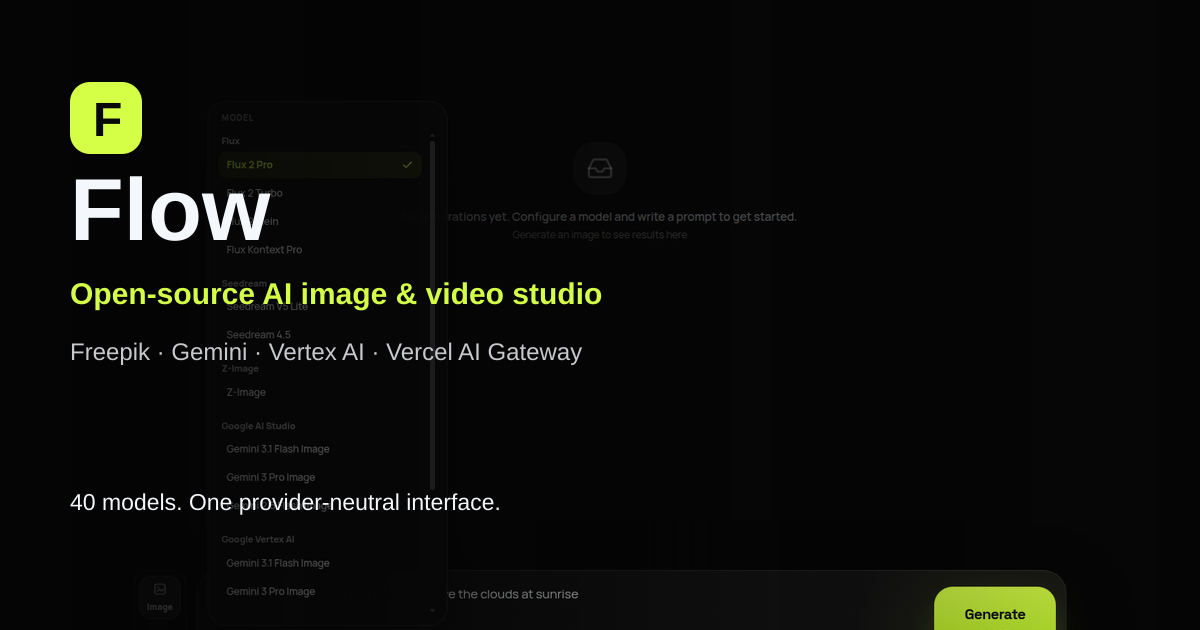
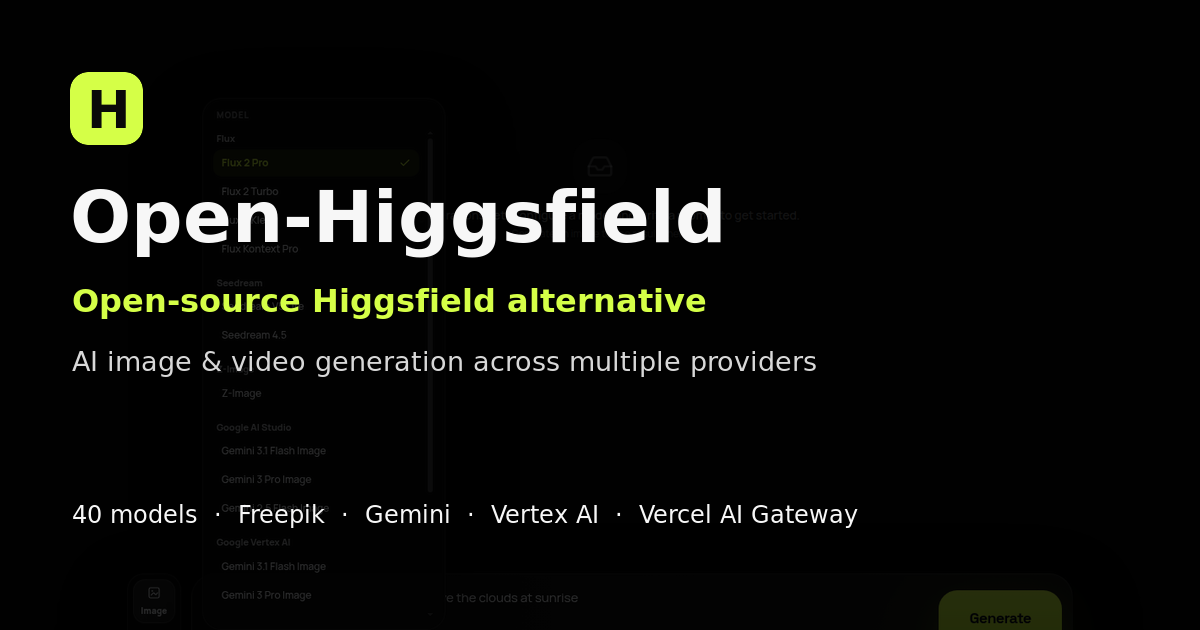
chore: rebrand project as Open-Higgsfield

diff --git a/src/app/[locale]/layout.tsx b/src/app/[locale]/layout.tsx
@@ -18,16 +18,19 @@ const spaceGrotesk = Space_Grotesk({
 });
 
 export const metadata: Metadata = {
-    metadataBase: new URL("https://flow.techbe.me"),
+    metadataBase: new URL("https://open-higgsfield.techbe.me"),
     title: {
-        default: "Flow - Open Source AI Image & Video Studio",
-        template: "%s | Flow",
+        default: "Open-Higgsfield - Open-Source Higgsfield Alternative",
+        template: "%s | Open-Higgsfield",
     },
-    description: "Generate AI images and videos with Freepik, Gemini, Google Vertex AI and Vercel AI Gateway from one open-source studio.",
+    description: "The open-source Higgsfield alternative for AI image and video generation with Freepik, Gemini, Vertex AI and Vercel AI Gateway.",
     keywords: [
         "AI image generator",
         "AI video generator",
         "open source AI studio",
+        "Higgsfield alternative",
+        "open source Higgsfield",
+        "Open-Higgsfield",
         "Gemini image generation",
         "Veo video generation",
         "Vertex AI",
@@ -38,7 +41,7 @@ export const metadata: Metadata = {
     ],
     authors: [{ name: "TechBe", url: "https://techbe.me" }],
     creator: "TechBe",
-    applicationName: "Flow",
+    applicationName: "Open-Higgsfield",
     alternates: {
         canonical: "/",
         languages: {
@@ -48,16 +51,16 @@ export const metadata: Metadata = {
     },
     openGraph: {
         type: "website",
-        url: "https://flow.techbe.me",
-        siteName: "Flow",
-        title: "Flow - Open Source AI Image & Video Studio",
-        description: "One interface for multi-provider AI image and video generation.",
-        images: [{ url: "/og-image.png", width: 1200, height: 630, alt: "Flow AI image and video studio" }],
+        url: "https://open-higgsfield.techbe.me",
+        siteName: "Open-Higgsfield",
+        title: "Open-Higgsfield - Open-Source Higgsfield Alternative",
+        description: "Generate AI images and videos across multiple providers from one free, self-hostable studio.",
+        images: [{ url: "/og-image.png", width: 1200, height: 630, alt: "Open-Higgsfield AI image and video studio" }],
     },
     twitter: {
         card: "summary_large_image",
-        title: "Flow - Open Source AI Image & Video Studio",
-        description: "One interface for multi-provider AI image and video generation.",
+        title: "Open-Higgsfield - Open-Source Higgsfield Alternative",
+        description: "Generate AI images and videos across multiple providers from one free, self-hostable studio.",
         images: ["/og-image.png"],
     },
     icons: { icon: "/icon.svg" },

diff --git a/src/app/sitemap.ts b/src/app/sitemap.ts
@@ -2,7 +2,7 @@ import type { MetadataRoute } from "next";
 
 export default function sitemap(): MetadataRoute.Sitemap {
     return [
-        { url: "https://flow.techbe.me/en", changeFrequency: "weekly", priority: 1 },
-        { url: "https://flow.techbe.me/pt-BR", changeFrequency: "weekly", priority: 0.9 },
+        { url: "https://open-higgsfield.techbe.me/en", changeFrequency: "weekly", priority: 1 },
+        { url: "https://open-higgsfield.techbe.me/pt-BR", changeFrequency: "weekly", priority: 0.9 },
     ];
 }

diff --git a/src/app/manifest.ts b/src/app/manifest.ts
@@ -2,8 +2,8 @@ import type { MetadataRoute } from "next";
 
 export default function manifest(): MetadataRoute.Manifest {
     return {
-        name: "Flow - AI Image & Video Studio",
-        short_name: "Flow",
+        name: "Open-Higgsfield - AI Image & Video Studio",
+        short_name: "Open-Higgsfield",
         description: "Open-source multi-provider AI image and video generation studio.",
         start_url: "/",
         display: "standalone",

diff --git a/src/lib/storage-paths.ts b/src/lib/storage-paths.ts
@@ -1,7 +1,7 @@
 import path from "node:path";
 
-export const STORAGE_ROOT = process.env.FLOW_STORAGE_DIR
-    ? path.resolve(process.env.FLOW_STORAGE_DIR)
+export const STORAGE_ROOT = process.env.OPEN_HIGGSFIELD_STORAGE_DIR
+    ? path.resolve(process.env.OPEN_HIGGSFIELD_STORAGE_DIR)
     : process.env.VERCEL
-        ? path.join("/tmp", "flow-ai-studio")
+        ? path.join("/tmp", "open-higgsfield")
         : process.cwd();

diff --git a/src/app/robots.ts b/src/app/robots.ts
@@ -3,7 +3,7 @@ import type { MetadataRoute } from "next";
 export default function robots(): MetadataRoute.Robots {
     return {
         rules: { userAgent: "*", allow: "/", disallow: "/api/" },
-        sitemap: "https://flow.techbe.me/sitemap.xml",
-        host: "https://flow.techbe.me",
+        sitemap: "https://open-higgsfield.techbe.me/sitemap.xml",
+        host: "https://open-higgsfield.techbe.me",
     };
 }

diff --git a/src/components/studio/Header.tsx b/src/components/studio/Header.tsx
@@ -22,7 +22,7 @@ export function Header({ mode, onModeChange }: HeaderProps) {
           <Sparkles className="h-4 w-4 text-primary-foreground" />
         </div>
         <span className="font-bold text-sm hidden sm:inline tracking-tight">
-          Flow <span className="text-primary">AI</span>
+          Open<span className="text-primary">Higgsfield</span>
         </span>
       </div>
 

diff --git a/src/lib/upload.ts b/src/lib/upload.ts
@@ -39,7 +39,7 @@ async function uploadToCloudinary(buffer: Buffer, filename: string, mimeType: st
     }
 
     const timestamp = Math.floor(Date.now() / 1000);
-    const folder = "flow-ai-studio";
+    const folder = "open-higgsfield";
 
     // Generate SHA-1 signature: sign "folder=...&timestamp=..." + apiSecret
     const { createHash } = await import("crypto");

diff --git a/src/app/api/health/route.ts b/src/app/api/health/route.ts
@@ -1,5 +1,5 @@
 import { NextResponse } from "next/server";
 
 export function GET() {
-    return NextResponse.json({ status: "ok", service: "flow-ai-studio" });
+    return NextResponse.json({ status: "ok", service: "open-higgsfield" });
 }

diff --git a/README.md b/README.md
@@ -1,11 +1,11 @@
 <div align="center">
-  <img src="public/icon.svg" width="88" alt="Flow logo" />
-  <h1>Flow</h1>
-  <p><strong>Open-source AI image and video generation studio.</strong></p>
-  <p>Run Freepik, Gemini, Google Vertex AI and Vercel AI Gateway models from one fast, provider-neutral interface.</p>
+  <img src="public/icon.svg" width="88" alt="Open-Higgsfield logo" />
+  <h1>Open-Higgsfield</h1>
+  <p><strong>The open-source Higgsfield alternative for AI image and video generation.</strong></p>
+  <p>Generate with Freepik, Gemini, Google Vertex AI and Vercel AI Gateway models from one fast, provider-neutral studio.</p>
 
   <p>
-    <a href="https://flow.techbe.me"><strong>Live Demo</strong></a>
+    <a href="https://open-higgsfield.techbe.me"><strong>Live Demo</strong></a>
     |
     <a href="#quick-start">Quick Start</a>
     |
@@ -15,23 +15,27 @@
   </p>
 
   <p>
-    <a href="https://github.com/TechBeme/flow-ai-studio/actions/workflows/ci.yml"><img alt="CI" src="https://github.com/TechBeme/flow-ai-studio/actions/workflows/ci.yml/badge.svg" /></a>
+    <a href="https://github.com/TechBeme/open-higgsfield/actions/workflows/ci.yml"><img alt="CI" src="https://github.com/TechBeme/open-higgsfield/actions/workflows/ci.yml/badge.svg" /></a>
     <a href="LICENSE"><img alt="MIT License" src="https://img.shields.io/badge/license-MIT-d5ff47" /></a>
     <a href="https://nextjs.org"><img alt="Next.js 16" src="https://img.shields.io/badge/Next.js-16-black?logo=next.js" /></a>
     <a href="https://www.typescriptlang.org"><img alt="TypeScript" src="https://img.shields.io/badge/TypeScript-strict-3178c6?logo=typescript&logoColor=white" /></a>
-    <a href="https://github.com/TechBeme/flow-ai-studio/stargazers"><img alt="GitHub stars" src="https://img.shields.io/github/stars/TechBeme/flow-ai-studio?style=social" /></a>
+    <a href="https://github.com/TechBeme/open-higgsfield/stargazers"><img alt="GitHub stars" src="https://img.shields.io/github/stars/TechBeme/open-higgsfield?style=social" /></a>
   </p>
 
   <p><a href="docs/README.pt-BR.md">Leia em Portugues</a></p>
 </div>
 
-![Flow AI image and video generation studio](docs/images/flow-studio.png)
+![Open-Higgsfield AI image and video generation studio](docs/images/open-higgsfield-studio.png)
 
-## Why Flow?
+## The open-source Higgsfield alternative
 
-AI media APIs are powerful, but every provider uses different model names, payloads, upload rules, polling formats and output types. Flow puts those differences behind one normalized architecture, so creators get one consistent studio and developers get one extensible codebase.
+Open-Higgsfield is a free, self-hostable AI image and video studio for people who want a flexible alternative to closed creative platforms. Bring your own API keys, switch providers without changing tools and keep the interface, model catalog and deployment under your control.
 
-Flow currently exposes **40 curated image and video models** across four provider integrations without coupling the UI to any provider SDK.
+AI media APIs use different model names, payloads, upload rules, polling formats and output types. Open-Higgsfield puts those differences behind one normalized architecture, so creators get one consistent studio and developers get one extensible codebase.
+
+Open-Higgsfield currently exposes **40 curated image and video models** across four provider integrations without coupling the UI to any provider SDK.
+
+> Open-Higgsfield is an independent open-source project and is not affiliated with or endorsed by Higgsfield AI.
 
 ## Highlights
 
@@ -62,7 +66,7 @@ See the complete integration guide in [docs/providers.md](docs/providers.md).
 
 | Model discovery | Adaptive controls |
 | --- | --- |
-| ![Flow model selector](docs/images/flow-models.png) | ![Flow advanced generation controls](docs/images/flow-controls.png) |
+| ![Open-Higgsfield model selector](docs/images/open-higgsfield-models.png) | ![Open-Higgsfield advanced generation controls](docs/images/open-higgsfield-controls.png) |
 
 ## Quick start
 
@@ -76,8 +80,8 @@ See the complete integration guide in [docs/providers.md](docs/providers.md).
 ### Run locally
 
 ```bash
-git clone https://github.com/TechBeme/flow-ai-studio.git
-cd flow-ai-studio
+git clone https://github.com/TechBeme/open-higgsfield.git
+cd open-higgsfield
 npm install
 cp .env.example .env.local
 npm run dev
@@ -92,7 +96,7 @@ cp .env.example .env.local
 docker compose up --build
 ```
 
-Generated files and local task history are stored in the `flow-data` Docker volume.
+Generated files and local task history are stored in the `open-higgsfield-data` Docker volume.
 
 ## Configuration
 
@@ -115,7 +119,7 @@ AI_GATEWAY_API_KEY=
 CLOUDINARY_URL=
 ```
 
-Never prefix provider secrets with `NEXT_PUBLIC_`. Flow reads credentials only in server-side modules. See [.env.example](.env.example) for every supported variable.
+Never prefix provider secrets with `NEXT_PUBLIC_`. Open-Higgsfield reads credentials only in server-side modules. See [.env.example](.env.example) for every supported variable.
 
 ## How it works
 
@@ -151,9 +155,9 @@ The UI automatically derives model groups, media slots and controls from capabil
 
 ## Deploy
 
-[![Deploy with Vercel](https://vercel.com/button)](https://vercel.com/new/clone?repository-url=https%3A%2F%2Fgithub.com%2FTechBeme%2Fflow-ai-studio)
+[![Deploy with Vercel](https://vercel.com/button)](https://vercel.com/new/clone?repository-url=https%3A%2F%2Fgithub.com%2FTechBeme%2Fopen-higgsfield)
 
-Flow can be deployed to Vercel for a public interface, but local files and in-memory tasks are ephemeral on serverless platforms. For reliable production generation, connect durable object storage and a persistent task/queue backend. The Docker deployment keeps local state on a volume and is the simplest full-featured self-hosted option today.
+Open-Higgsfield can be deployed to Vercel for a public interface, but local files and in-memory tasks are ephemeral on serverless platforms. For reliable production generation, connect durable object storage and a persistent task/queue backend. The Docker deployment keeps local state on a volume and is the simplest full-featured self-hosted option today.
 
 Read [docs/deployment.md](docs/deployment.md) before exposing a deployment that uses paid provider credentials.
 
@@ -168,7 +172,7 @@ Please report vulnerabilities privately as described in [SECURITY.md](SECURITY.m
 
 ## Project status and roadmap
 
-Flow is actively evolving. The provider abstraction and generation studio are usable now; production infrastructure depends on the deployment target.
+Open-Higgsfield is actively evolving. The provider abstraction and generation studio are usable now; production infrastructure depends on the deployment target.
 
 - [x] Multi-provider image and video generation
 - [x] Capability-driven model controls
@@ -182,13 +186,13 @@ Flow is actively evolving. The provider abstraction and generation studio are us
 
 ## Contributing
 
-Contributions are welcome. Start with [CONTRIBUTING.md](CONTRIBUTING.md), browse [good first issues](https://github.com/TechBeme/flow-ai-studio/labels/good%20first%20issue), or open a discussion with a provider/model proposal.
+Contributions are welcome. Start with [CONTRIBUTING.md](CONTRIBUTING.md), browse [good first issues](https://github.com/TechBeme/open-higgsfield/labels/good%20first%20issue), or open a discussion with a provider/model proposal.
 
-If Flow is useful to you, **star the repository**. Stars help more builders discover the project and directly influence what gets prioritized next.
+If Open-Higgsfield is useful to you, **star the repository**. Stars help more builders discover the project and directly influence what gets prioritized next.
 
 ## License
 
-Flow is released under the [MIT License](LICENSE).
+Open-Higgsfield is released under the [MIT License](LICENSE).
 
 ---
 

diff --git a/docs/README.pt-BR.md b/docs/README.pt-BR.md
@@ -1,20 +1,22 @@
-# Flow
+# Open-Higgsfield
 
-O Flow e um studio open source para gerar imagens e videos com IA usando varios provedores em uma unica interface.
+O Open-Higgsfield e uma alternativa open source ao Higgsfield para gerar imagens e videos com IA usando varios provedores em uma unica interface.
 
-[Demo](https://flow.techbe.me) | [README principal](../README.md) | [Como contribuir](../CONTRIBUTING.md)
+[Demo](https://open-higgsfield.techbe.me) | [README principal](../README.md) | [Como contribuir](../CONTRIBUTING.md)
 
-![Flow AI Studio](images/flow-studio.png)
+![Open-Higgsfield AI Studio](images/open-higgsfield-studio.png)
 
 ## O que o projeto resolve
 
-Cada API de geracao usa modelos, payloads, uploads, polling e formatos de resposta diferentes. O Flow normaliza essas diferencas em uma arquitetura modular:
+Cada API de geracao usa modelos, payloads, uploads, polling e formatos de resposta diferentes. O Open-Higgsfield normaliza essas diferencas em uma arquitetura modular:
 
 - uma interface consistente para imagem e video;
 - controles que se adaptam ao modelo selecionado;
 - providers isolados do frontend;
 - tarefas e resultados com um contrato unico;
 - suporte a texto, imagens de referencia, video e audio.
+
+> O Open-Higgsfield e um projeto independente e nao possui afiliacao ou endosso da Higgsfield AI.
 
 ## Providers
 
@@ -30,8 +32,8 @@ O catalogo inclui Gemini, Veo, Flux, Recraft, GPT Image, Kling, Wan, Runway, See
 ## Inicio rapido
 
 ```bash
-git clone https://github.com/TechBeme/flow-ai-studio.git
-cd flow-ai-studio
+git clone https://github.com/TechBeme/open-higgsfield.git
+cd open-higgsfield
 npm install
 cp .env.example .env.local
 npm run dev

diff --git a/docs/deployment.md b/docs/deployment.md
@@ -18,10 +18,10 @@ Do not expose provider keys through `NEXT_PUBLIC_*` variables.
 1. Import the GitHub repository into Vercel.
 2. Add only the credentials for the providers you want enabled.
 3. Add Cloudinary credentials for reference media workflows.
-4. Point `flow.techbe.me` to the deployment.
+4. Point `open-higgsfield.techbe.me` to the deployment.
 5. Enable deployment protection while validating real provider calls.
 
-Vercel functions use `/tmp/flow-ai-studio` automatically. That filesystem and in-memory task state are ephemeral. The UI deploys normally, but reliable asynchronous generation needs durable task storage and a queue/worker or scheduled polling strategy.
+Vercel functions use `/tmp/open-higgsfield` automatically. That filesystem and in-memory task state are ephemeral. The UI deploys normally, but reliable asynchronous generation needs durable task storage and a queue/worker or scheduled polling strategy.
 
 ## Docker
 
@@ -39,10 +39,10 @@ The container exposes port `3000`, stores runtime data under `/app/data`, and pr
 ```bash
 npm ci
 npm run build
-FLOW_STORAGE_DIR=/var/lib/flow npm start
+OPEN_HIGGSFIELD_STORAGE_DIR=/var/lib/open-higgsfield npm start
 ```
 
-Ensure the process user can write to `FLOW_STORAGE_DIR`. Put a TLS reverse proxy in front of the app and configure upload/body limits appropriate for media generation.
+Ensure the process user can write to `OPEN_HIGGSFIELD_STORAGE_DIR`. Put a TLS reverse proxy in front of the app and configure upload/body limits appropriate for media generation.
 
 ## Production persistence
 

diff --git a/docs/architecture.md b/docs/architecture.md
@@ -1,6 +1,6 @@
 # Architecture
 
-Flow separates product behavior from provider-specific API details. The command bar never needs to know how Freepik, Google or Vercel structures a request.
+Open-Higgsfield separates product behavior from provider-specific API details. The command bar never needs to know how Freepik, Google or Vercel structures a request.
 
 ## Layers
 
@@ -38,12 +38,12 @@ Freepik has model-family-specific payload and endpoint differences. Those remain
 2. A route handler validates the form and creates canonical parameters.
 3. The registry resolves the provider and upstream model ID.
 4. The provider returns generated assets or an asynchronous operation.
-5. Flow normalizes status updates and attaches completed assets to the task.
+5. Open-Higgsfield normalizes status updates and attaches completed assets to the task.
 6. The result feed receives updates and exposes reuse/download actions.
 
 ## Storage
 
-Local development stores task history, uploads and downloads on disk. `FLOW_STORAGE_DIR` changes the storage root. Vercel defaults to `/tmp/flow-ai-studio`, which is ephemeral and should not be considered durable production storage.
+Local development stores task history, uploads and downloads on disk. `OPEN_HIGGSFIELD_STORAGE_DIR` changes the storage root. Vercel defaults to `/tmp/open-higgsfield`, which is ephemeral and should not be considered durable production storage.
 
 ## Extension points
 
